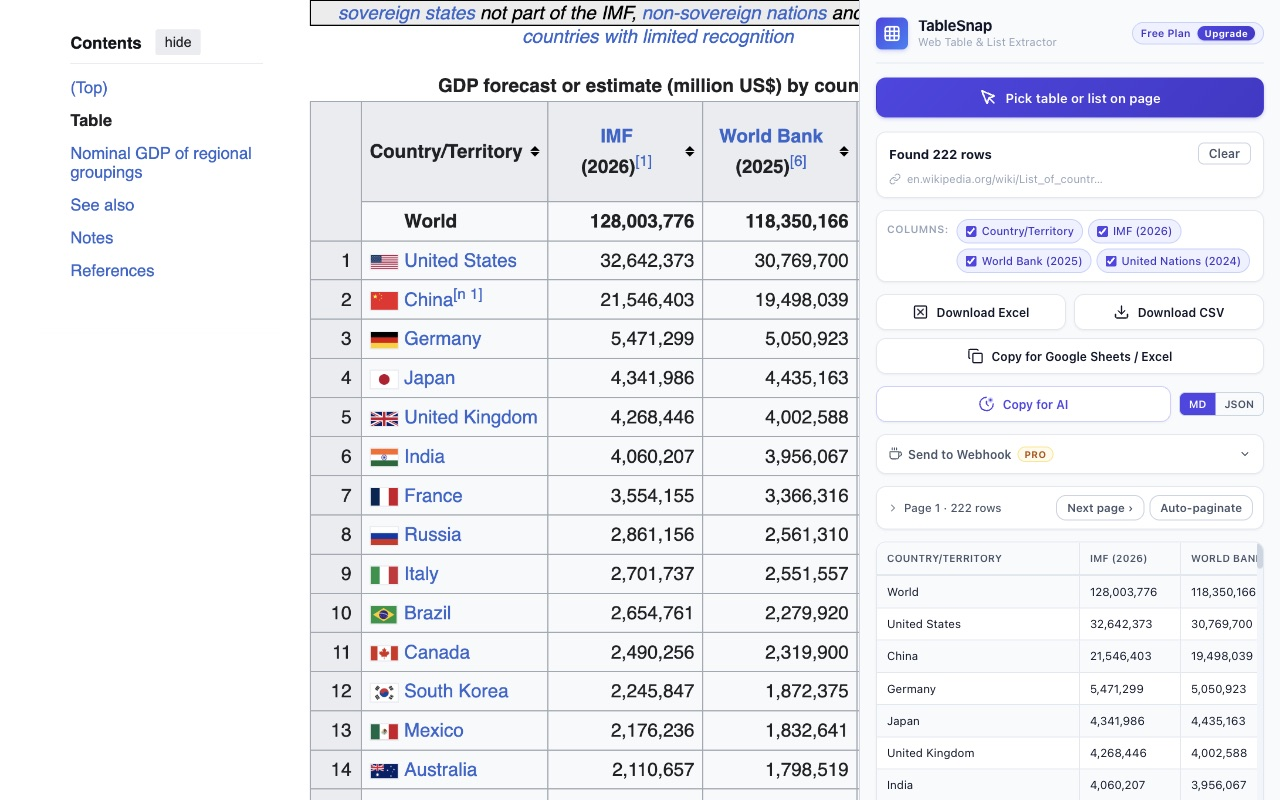
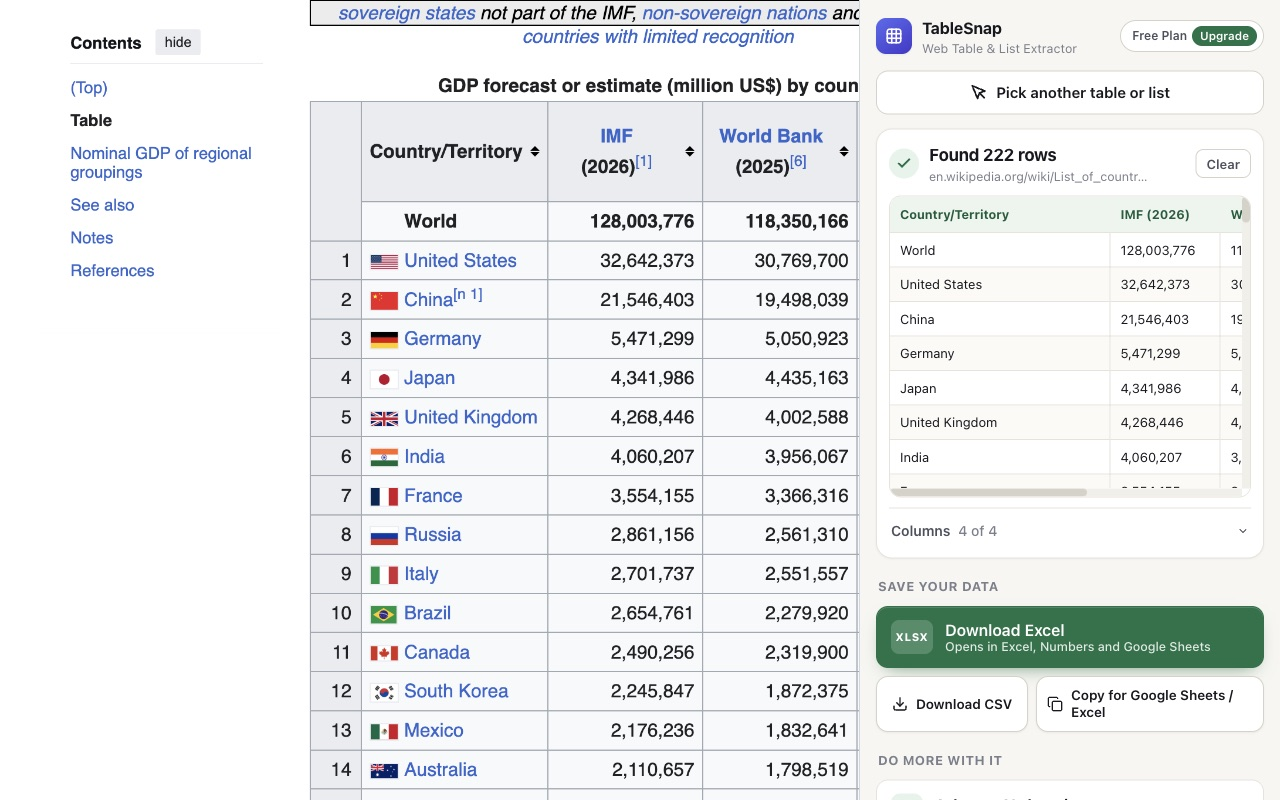
Screenshots with the new extension design

diff --git a/index.html b/index.html
@@ -8,7 +8,7 @@
   <meta property="og:title" content="TableSnap – Copy any web table or list into Excel">
   <meta property="og:description" content="Point at a table or list on any website and get clean rows in Excel, Sheets, CSV or your AI. Free, private, no sign-up.">
   <meta property="og:type" content="website">
-  <meta property="og:image" content="https://tablesnap.github.io/img/1-extract-table.jpg">
+  <meta property="og:image" content="https://tablesnap.github.io/img/1-extract-table.jpg?v=2">
   <link rel="icon" type="image/png" href="icon128.png">
   <link rel="preconnect" href="https://fonts.googleapis.com">
   <link rel="preconnect" href="https://fonts.gstatic.com" crossorigin>
@@ -67,7 +67,7 @@
             <span class="dots"><i></i><i></i><i></i></span>
             <span class="url">en.wikipedia.org/wiki/List_of_countries_by_GDP</span>
           </div>
-          <img src="img/1-extract-table.jpg" width="1280" height="800" alt="TableSnap side panel next to a Wikipedia table, showing 222 extracted rows ready to download as Excel">
+          <img src="img/1-extract-table.jpg?v=2" width="1280" height="800" alt="TableSnap side panel next to a Wikipedia table, showing 222 extracted rows ready to download as Excel">
           <figcaption class="float-card float-left" aria-hidden="true">
             <span class="fc-icon">
               <svg viewBox="0 0 24 24" width="18" height="18" fill="none" stroke="currentColor" stroke-width="2.2" stroke-linecap="round" stroke-linejoin="round"><path d="M20 6 9 17l-5-5"/></svg>
@@ -102,9 +102,9 @@
         </div>
 
         <div class="tabs" role="tablist" aria-label="Examples">
-          <button role="tab" aria-selected="true" aria-controls="ex-panel" data-src="img/2-google-maps-list.jpg" data-url="google.com/maps/search/restaurants+in+barcelona" data-alt="Google Maps restaurant results turned into rows with title, rating, price and address" data-note="15 restaurants across 3 pages – name, stars, price, type and address.">Google Maps</button>
-          <button role="tab" aria-selected="false" aria-controls="ex-panel" data-src="img/3-find-phones-emails.jpg" data-url="paginasamarillas.es/search/fontaneros/barcelona" data-alt="A business directory turned into rows with phone numbers found on each company's website" data-note="25 plumbers with their website, address – and the phone found on each website.">Business directory</button>
-          <button role="tab" aria-selected="false" aria-controls="ex-panel" data-src="img/1-extract-table.jpg" data-url="en.wikipedia.org/wiki/List_of_countries_by_GDP" data-alt="A Wikipedia table with 222 rows extracted into the side panel" data-note="222 countries – footnotes removed, numbers stay numbers in Excel.">Wikipedia table</button>
+          <button role="tab" aria-selected="true" aria-controls="ex-panel" data-src="img/2-google-maps-list.jpg?v=2" data-url="google.com/maps/search/restaurants+in+barcelona" data-alt="Google Maps restaurant results turned into rows with title, rating, price and address" data-note="15 restaurants across 3 pages – name, stars, price, type and address.">Google Maps</button>
+          <button role="tab" aria-selected="false" aria-controls="ex-panel" data-src="img/3-find-phones-emails.jpg?v=2" data-url="paginasamarillas.es/search/fontaneros/barcelona" data-alt="A business directory turned into rows with phone numbers found on each company's website" data-note="25 plumbers with their website, address – and the phone found on each website.">Business directory</button>
+          <button role="tab" aria-selected="false" aria-controls="ex-panel" data-src="img/1-extract-table.jpg?v=2" data-url="en.wikipedia.org/wiki/List_of_countries_by_GDP" data-alt="A Wikipedia table with 222 rows extracted into the side panel" data-note="222 countries – footnotes removed, numbers stay numbers in Excel.">Wikipedia table</button>
         </div>
 
         <figure class="browser example-shot" id="ex-panel" role="tabpanel">
@@ -112,7 +112,7 @@
             <span class="dots"><i></i><i></i><i></i></span>
             <span class="url" id="ex-url">google.com/maps/search/restaurants+in+barcelona</span>
           </div>
-          <img id="ex-img" src="img/2-google-maps-list.jpg" width="1280" height="800" loading="lazy" alt="Google Maps restaurant results turned into rows with title, rating, price and address">
+          <img id="ex-img" src="img/2-google-maps-list.jpg?v=2" width="1280" height="800" loading="lazy" alt="Google Maps restaurant results turned into rows with title, rating, price and address">
         </figure>
         <p class="example-note" id="ex-note">15 restaurants across 3 pages – name, stars, price, type and address.</p>
       </div>
